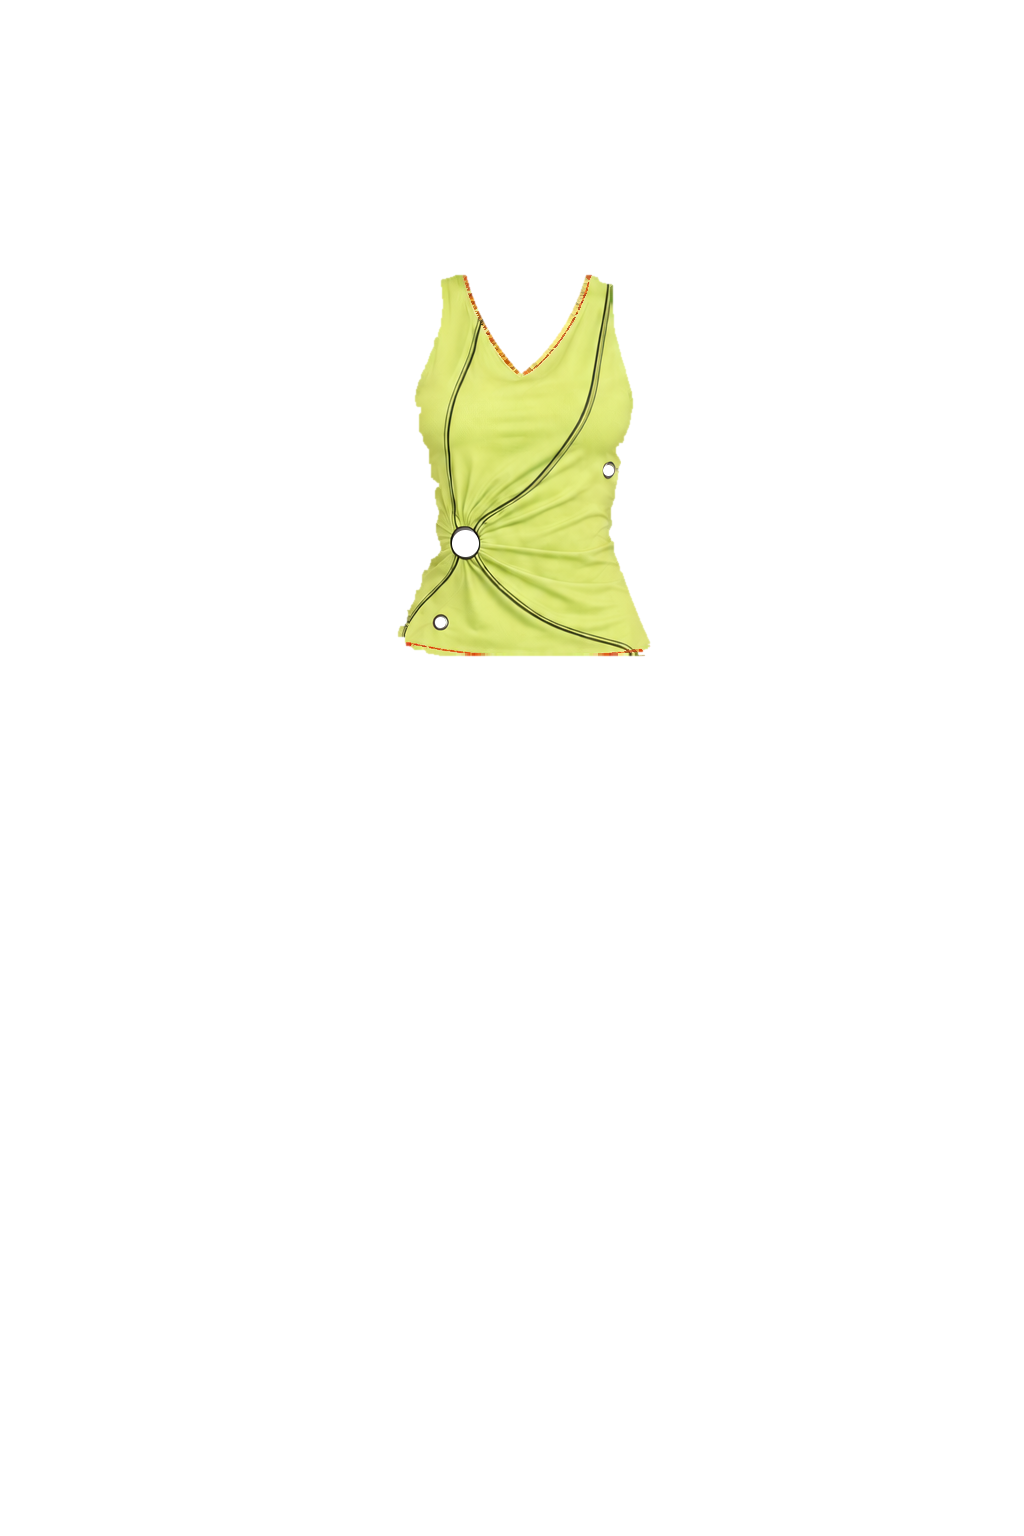
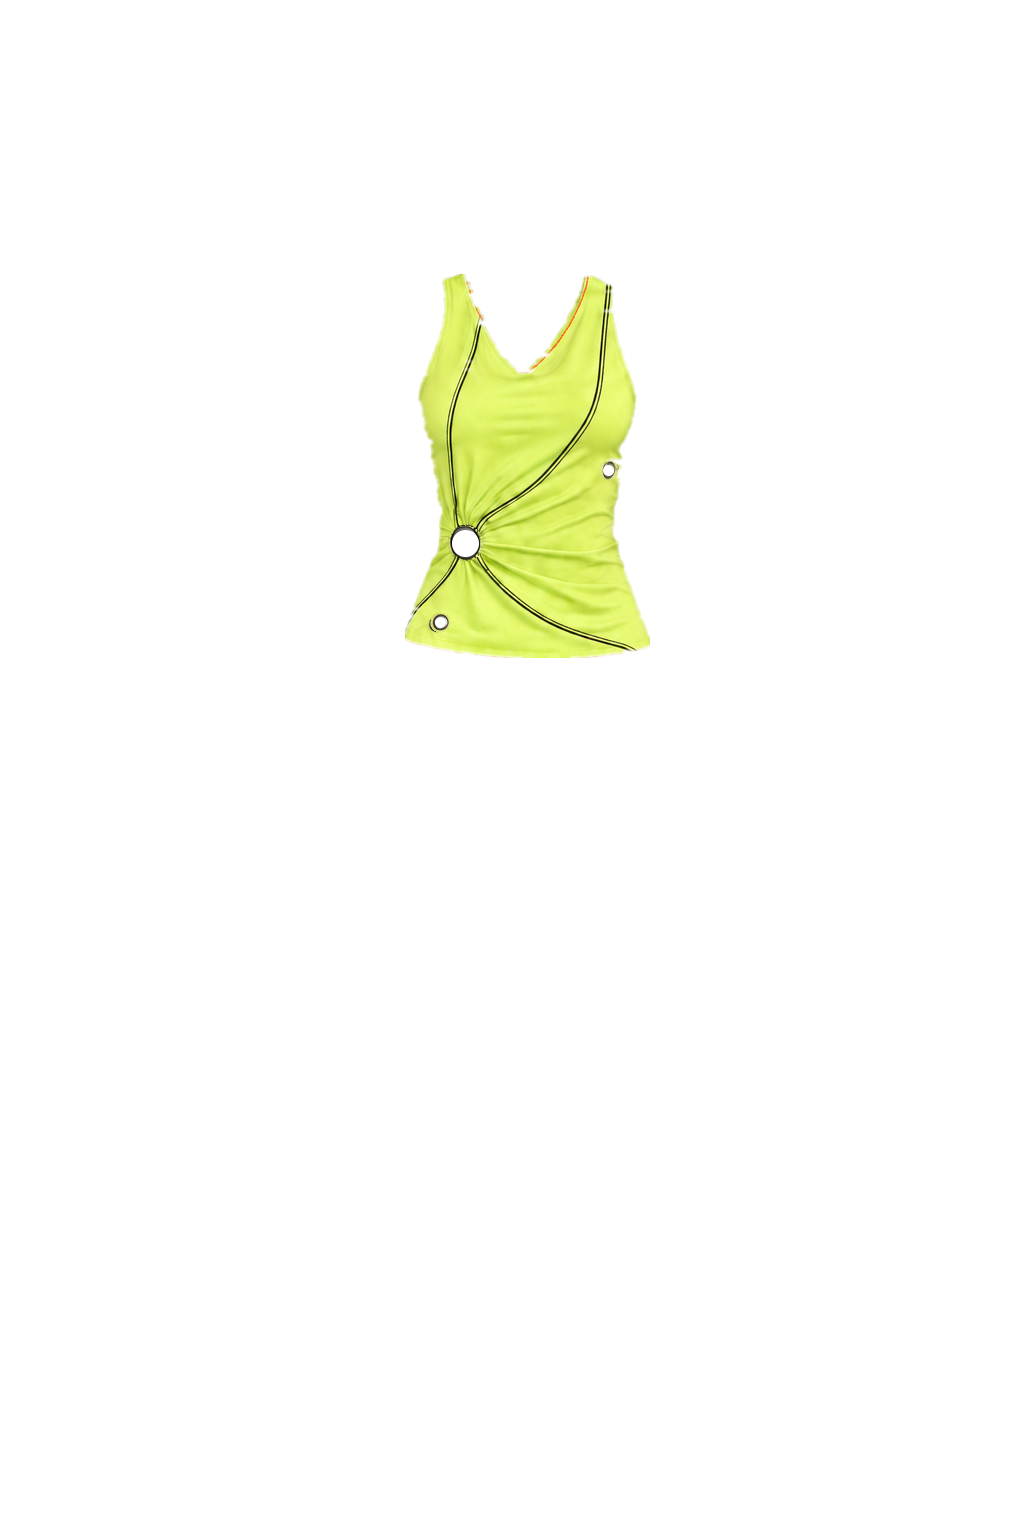
fix(studio): refine garment masks and layering

Changed region(s): [[0.375, 0.1562, 0.625, 0.4375]]

diff --git a/src/lib/studio-look.ts b/src/lib/studio-look.ts
@@ -1,4 +1,4 @@
-import { STAGE, STUDIO_ASSET_VERSION, assetUrl, modelAssetId, garmentAssetId, hasShowcasePose, bootTuckBottomIds, categories, allGarments, layerOrder, foregroundArmsOrder, type Category, type Selection } from "./studio";
+import { STAGE, STUDIO_ASSET_VERSION, assetUrl, modelAssetId, garmentAssetId, hasShowcasePose, bootTuckBottomIds, categories, allGarments, layerOrder, foregroundArmsOrder, getGarmentLayerOrder, type Category, type Selection } from "./studio";
 
 export type Fit = { x: number; y: number; scaleX: number; scaleY: number; angle: number };
 export type SavedStudio = {
@@ -50,12 +50,15 @@ export async function renderLook({ selected, fits }: SavedStudio, showcase = tru
   const context = canvas.getContext("2d");
   if (!context) throw new Error("Canvas unavailable");
   const boots = selected.shoes === "shoes-party-platform-boots" || selected.shoes === "shoes-brown-boots";
-  const order = (category: Category) => category === "shoes" && boots && bootTuckBottomIds.has(selected.bottoms || "") ? 35 : layerOrder[category];
   const layers = [
     { id: modelAssetId(selected, showcase), fit: initialFit, clip: false, order: 0 },
     ...allGarments.filter((item) => selected[item.category] === item.id)
-      .sort((a, b) => order(a.category) - order(b.category))
-      .map((item) => ({ id: garmentAssetId(item.id, selected, showcase), fit: hasShowcasePose(selected, showcase) && item.category === "tops" ? initialFit : fits[item.id] || initialFit, clip: boots && bootTuckBottomIds.has(item.id), order: order(item.category) })),
+      .map((item) => ({
+        id: garmentAssetId(item.id, selected, showcase),
+        fit: hasShowcasePose(selected, showcase) && item.category === "tops" ? initialFit : fits[item.id] || initialFit,
+        clip: boots && bootTuckBottomIds.has(item.id),
+        order: getGarmentLayerOrder(item, selected),
+      })),
     ...(!hasShowcasePose(selected, showcase) ? [{ id: "model-arms", fit: initialFit, clip: false, order: foregroundArmsOrder }] : []),
   ].sort((a, b) => a.order - b.order);
   const images = await Promise.all(layers.map(async (layer) => {

diff --git a/src/lib/studio.ts b/src/lib/studio.ts
@@ -1,5 +1,5 @@
 export const STAGE = { width: 1024, height: 1536 } as const;
-export const STUDIO_ASSET_VERSION = "production-v2-20260909-detail-fix";
+export const STUDIO_ASSET_VERSION = "production-v2-20260909-v8";
 
 export const categories = [
   { id: "tops", label: "Tops" },
@@ -42,6 +42,23 @@ export const bootTuckBottomIds = new Set<string>([
   "bottom-navy-dots",
   "bottom-gray-maxi",
 ]);
+
+export function getGarmentLayerOrder(
+  item: Garment | { id: string; category: Category },
+  selected: Selection,
+): number {
+  if (
+    item.id === "shoes-brown-boots" &&
+    selected.bottoms && bootTuckBottomIds.has(selected.bottoms)
+  ) {
+    return 35;
+  }
+  // Denim top is tucked into jeans (đóng thùng)
+  if (item.id === "top-fitted-denim" && selected.bottoms === "bottom-sculpted-jeans") {
+    return 28;
+  }
+  return layerOrder[item.category];
+}
 
 export const presets: { name: string; selection: Selection }[] = [
   { name: "Denim Sculpture", selection: { tops: "top-fitted-denim", bottoms: "bottom-sculpted-jeans", shoes: "shoes-party-platform-boots" } },

diff --git a/src/components/dress-up-studio.tsx b/src/components/dress-up-studio.tsx
@@ -16,6 +16,7 @@ import {
   layerOrder,
   foregroundArmsOrder,
   bootTuckBottomIds,
+  getGarmentLayerOrder,
   previewAssetUrl,
   type Category,
   type Garment,
@@ -132,13 +133,7 @@ export function DressUpStudio() {
   }, [fits, held, hydrated, selected]);
 
   function garmentLayer(item: Garment) {
-    if (
-      item.id === "shoes-brown-boots" &&
-      selected.bottoms && bootTuckBottomIds.has(selected.bottoms)
-    ) {
-      return 35;
-    }
-    return layerOrder[item.category];
+    return getGarmentLayerOrder(item, selected);
   }
 
   const layers = useMemo(

diff --git a/tests/production-v2.spec.ts b/tests/production-v2.spec.ts
@@ -39,7 +39,7 @@ test('production assets have soft alpha, clean denim edges, and unchanged pose l
 
   const arms = await layer('model-arms');
   let hipSkinOverlay = 0;
-  for (let y = 620; y < 720; y++) for (let x = 387; x <= 655; x++) {
+  for (let y = 620; y < 720; y++) for (let x = 387; x <= 670; x++) {
     if (arms[(y * 1024 + x) * 4 + 3] > 10) hipSkinOverlay++;
   }
   expect(hipSkinOverlay, 'foreground arms must not paint skin over the pants at the hips').toBe(0);
